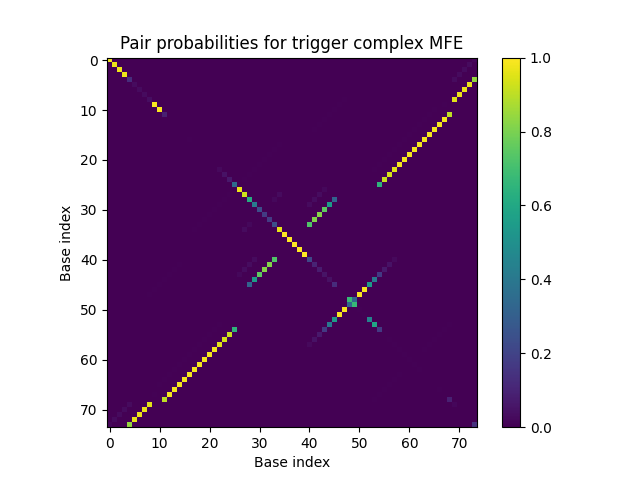
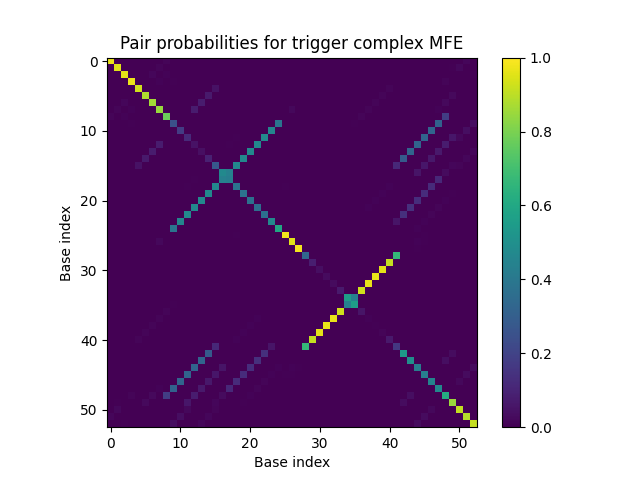
started work on trigger complex page

diff --git a/app.py b/app.py
@@ -14,7 +14,7 @@ from kivy.event import EventDispatcher
 
 kv = Builder.load_file("thsGenerator.kv")
 
-Window.size = (1200,800)
+Window.size = (1500,800)
 
 class MyEventDispatcher(EventDispatcher):
     def __init__(self, **kwargs):
@@ -112,18 +112,34 @@ class mainWindow(Screen):
     
     def received(self):
         print("test event received")  
-        manager.get_screen("second").ids.thsGrid.add_widget(Image(source = "ths.png"))
+
+        manager.get_screen("second").ids.thsBox.add_widget(Image(source = "ths.png"))
+
         thsGridText = BoxLayout(orientation = "vertical")
-        manager.get_screen("second").ids.thsGrid.add_widget(thsGridText)
-        thsGridText.add_widget(Label(text = "Toehold switch sequence and structure"))
-        thsGridText.add_widget(Label(text = thsGen.bestThs.sequence))
-        thsGridText.add_widget(Label(text = str(thsGen.bestThs.strucEnergy.structure)))
-        thsGridText.add_widget(Label(text = "With these other possible structures"))
+        manager.get_screen("second").ids.thsBox.add_widget(thsGridText)
+
+        thsGridText.add_widget(Label(text = "Toehold switch sequence and Boltzmann sampled structures:"))
+        thsGridText.add_widget(Label(text = thsGen.bestThs.sequence, font_size = 10))
         for x in thsGen.bestThs.thsSamples:
-            thsGridText.add_widget(Label(text = str(x)))
+            thsGridText.add_widget(Label(text = str(x), font_size = 12))
+        thsGridText.add_widget(Label(text = f"Toehold binding percentage of: {str(round(thsGen.bestThs.exposure, 2))} Approximate minimum free energy of: {str(round(thsGen.bestThs.strucEnergy.energy, 2))}"))
+        
+        manager.get_screen("third").ids.triggerBox.add_widget(Image(source = "trigger.png"))
 
+        triggerGridText = BoxLayout(orientation = "vertical")
+        manager.get_screen("third").ids.triggerBox.add_widget(triggerGridText)
 
-
+        triggerGridText.add_widget(Label(text = "Trigger complex strand order and Boltzmann sampled structures:"))
+        bestThsOrderedStrands = thsGen.listAddition(thsGen.bestThs.strandsUsed[0:int((len(thsGen.strands)-1)/2)], thsGen.strands[int((len(thsGen.strands)-1)/2):int(len(thsGen.strands))])
+        triggerGridText.add_widget(Label(text = str(bestThsOrderedStrands), font_size = 10))
+        for x in thsGen.bestThs.triggerSamples:
+            triggerGridText.add_widget(Label(text = str(x), font_size = 12))
+        triggerGridText.add_widget(Label(text = f"Approximate minimum free energy of: {str(round(thsGen.triggerMFEStruc.energy, 2))}"))
+        for i, j in enumerate(bestThsOrderedStrands):
+            if (i % 2 == 1):
+                print(j, " is the and gate between ", thsGen.getKey(bestThsOrderedStrands[i-1]), " (", bestThsOrderedStrands[i-1], ") ", " and ", thsGen.getKey(bestThsOrderedStrands[i+1]), " (", bestThsOrderedStrands[i+1], ") ")
+        
+        
 
     ev.bind(on_thsGen = received)
 

diff --git a/thsGen.py b/thsGen.py
@@ -534,6 +534,10 @@ def iterate():
         analysis()
         global isDone
         isDone = True
+        bestThsOrderedStrands = listAddition(bestThs.strandsUsed[0:int((len(strands)-1)/2)], strands[int((len(strands)-1)/2):int(len(strands))])
+        triggerMFE = mfe(strands=bestThsOrderedStrands, model=thsModel)
+        global triggerMFEStruc
+        triggerMFEStruc = triggerMFE[0]
 
        
 # Start function takes a dict of {miRNA name: miRNA sequence}, it also handles all the computation for 1 strand for miRNA since there is barely any code required to do so, no and gates present
